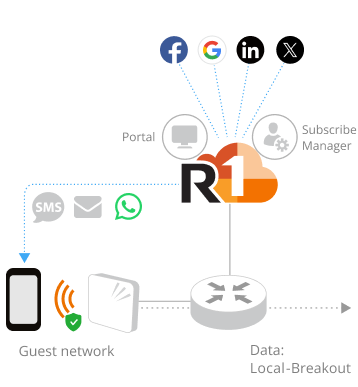
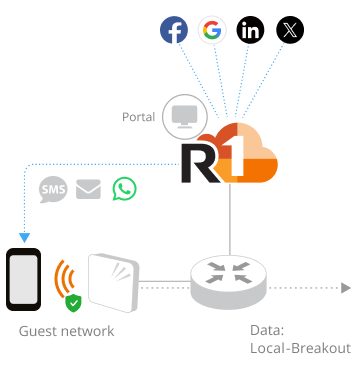
ACX-86289: support Accounting service on CaptivePortal Self sign in

diff --git a/libs/rc/shared/components/src/NetworkForm/NetworkDiagram/NetworkDiagram.tsx b/libs/rc/shared/components/src/NetworkForm/NetworkDiagram/NetworkDiagram.tsx
@@ -61,8 +61,14 @@ import PskDiagram                      from '../assets/images/network-wizard-dia
 import SAMLWithOweDiagram              from '../assets/images/network-wizard-diagrams/saml-owe.png'
 import SAMLWithPskDiagram              from '../assets/images/network-wizard-diagrams/saml-psk.png'
 import SAMLDiagram                     from '../assets/images/network-wizard-diagrams/saml.png'
-import SelfSignInWithOweDiagram        from '../assets/images/network-wizard-diagrams/self-sign-in-owe.png'
-import SelfSignInWithPskDiagram        from '../assets/images/network-wizard-diagrams/self-sign-in-psk.png'
+import SelfSignInAaaProxyDiagram       from '../assets/images/network-wizard-diagrams/self-sign-in-aaa-proxy.png'
+import SelfSignInAaaDiagram            from '../assets/images/network-wizard-diagrams/self-sign-in-aaa.png'
+import SelfSignInOweAaaProxyDiagram    from '../assets/images/network-wizard-diagrams/self-sign-in-owe-aaa-proxy.png'
+import SelfSignInOweAaaDiagram         from '../assets/images/network-wizard-diagrams/self-sign-in-owe-aaa.png'
+import SelfSignInOweDiagram            from '../assets/images/network-wizard-diagrams/self-sign-in-owe.png'
+import SelfSignInPskAaaProxyDiagram    from '../assets/images/network-wizard-diagrams/self-sign-in-psk-aaa-proxy.png'
+import SelfSignInPskAaaDiagram         from '../assets/images/network-wizard-diagrams/self-sign-in-psk-aaa.png'
+import SelfSignInPskDiagram            from '../assets/images/network-wizard-diagrams/self-sign-in-psk.png'
 import SelfSignInDiagram               from '../assets/images/network-wizard-diagrams/self-sign-in.png'
 import WISPrWithAlwaysAcceptOweDiagram from '../assets/images/network-wizard-diagrams/wispr-always-accept-owe.png'
 import WISPrWithAlwaysAcceptPskDiagram from '../assets/images/network-wizard-diagrams/wispr-always-accept-psk.png'
@@ -118,6 +124,7 @@ interface CaptivePortalDiagramProps extends DiagramProps {
   networkPortalType?: GuestNetworkTypeEnum
   wlanSecurity?: WlanSecurityEnum
   wisprWithAlwaysAccept?: boolean
+  networkSecurity?: string
 }
 
 type NetworkDiagramProps = DefaultDiagramProps
@@ -277,8 +284,7 @@ function getCaptivePortalDiagram (props: CaptivePortalDiagramProps) {
   const CaptivePortalDiagramMap: Partial<Record<GuestNetworkTypeEnum, string>> = {
     [GuestNetworkTypeEnum.ClickThrough]: wisprWithPsk ? ClickThroughWithPskDiagram :
       (wisprWithOwe ? ClickThroughWithOweDiagram : ClickThroughDiagram),
-    [GuestNetworkTypeEnum.SelfSignIn]: wisprWithPsk ? SelfSignInWithPskDiagram :
-      (wisprWithOwe ? SelfSignInWithOweDiagram : SelfSignInDiagram),
+    [GuestNetworkTypeEnum.SelfSignIn]: getSelfSignInDiagram(props),
     [GuestNetworkTypeEnum.HostApproval]: wisprWithPsk ? HostApprovalWithPskDiagram :
       (wisprWithOwe ? HostApprovalWithOweDiagram : HostApprovalDiagram),
     [GuestNetworkTypeEnum.GuestPass]: wisprWithPsk ? GuestPassWithPskDiagram :
@@ -296,6 +302,50 @@ function getCaptivePortalDiagram (props: CaptivePortalDiagramProps) {
   }
   return CaptivePortalDiagramMap[type] || ClickThroughDiagram
 }
+
+function getSelfSignInDiagram (props: CaptivePortalDiagramProps) {
+  let diagrams
+
+  switch (props.networkSecurity) {
+    case 'OWE':
+      diagrams = {
+        Diagram: SelfSignInOweDiagram,
+        AaaProxyDiagram: SelfSignInOweAaaProxyDiagram,
+        AaaDiagram: SelfSignInOweAaaDiagram
+      }
+      break
+    case 'PSK':
+      diagrams = {
+        Diagram: SelfSignInPskDiagram,
+        AaaProxyDiagram: SelfSignInPskAaaProxyDiagram,
+        AaaDiagram: SelfSignInPskAaaDiagram
+      }
+      break
+    case 'NONE':
+    default:
+      diagrams = {
+        Diagram: SelfSignInDiagram,
+        AaaProxyDiagram: SelfSignInAaaProxyDiagram,
+        AaaDiagram: SelfSignInAaaDiagram
+      }
+      break
+  }
+
+  return getCommonCaptivePortalDiagram(
+    props, diagrams.Diagram, diagrams.AaaProxyDiagram, diagrams.AaaDiagram
+  )
+}
+
+function getCommonCaptivePortalDiagram (
+  props: NetworkDiagramProps,
+  nonAaaDiagram:string,
+  aaaProxyDiagram:string,
+  aaaNonProxyDiagram:string
+) {
+  return (props.enableAccountingService)?
+    getAAADiagramByParams(props, aaaProxyDiagram, aaaNonProxyDiagram) : nonAaaDiagram
+}
+
 
 export function NetworkDiagram (props: NetworkDiagramProps) {
   const { $t } = useIntl()
@@ -336,7 +386,9 @@ export function NetworkDiagram (props: NetworkDiagramProps) {
     // Hide AAA button under Captive Portal - Workflow
     if(props.type === NetworkTypeEnum.CAPTIVEPORTAL) {
       const cpProps = props as CaptivePortalDiagramProps
-      return cpProps.networkPortalType === GuestNetworkTypeEnum.Workflow
+
+      return cpProps.networkPortalType === GuestNetworkTypeEnum.Workflow ||
+        cpProps.networkPortalType === GuestNetworkTypeEnum.SelfSignIn
     }
 
     if(networkType === NetworkTypeEnum.DPSK) {

diff --git a/libs/rc/shared/components/src/NetworkForm/NetworkDiagram/NetworkDiagram.spec.tsx b/libs/rc/shared/components/src/NetworkForm/NetworkDiagram/NetworkDiagram.spec.tsx
@@ -2,9 +2,9 @@ import '@testing-library/jest-dom'
 
 import userEvent from '@testing-library/user-event'
 
-import { GuestNetworkTypeEnum, NetworkTypeEnum, WlanSecurityEnum } from '@acx-ui/rc/utils'
-import { Provider }                                                from '@acx-ui/store'
-import { render, screen }                                          from '@acx-ui/test-utils'
+import { GuestNetworkTypeEnum, NetworkTypeEnum, WisprSecurityEnum, WlanSecurityEnum } from '@acx-ui/rc/utils'
+import { Provider }                                                                   from '@acx-ui/store'
+import { render, screen }                                                             from '@acx-ui/test-utils'
 
 import NetworkFormContext from '../NetworkFormContext'
 
@@ -723,17 +723,22 @@ describe('NetworkDiagram', () => {
     })
     it('should render Captive portal (Self Sign In) diagram successfully', async () => {
       const portalType = GuestNetworkTypeEnum.SelfSignIn
-      const { asFragment } = render(
+      render(
         <Provider>
           <NetworkFormContext.Provider value={{
             editMode: false,
             cloneMode: false,
+            isRuckusAiMode: false,
             data: {
               type
             },
             setData: jest.fn()
           }}>
-            <NetworkDiagram networkPortalType={portalType} />
+            <NetworkDiagram
+              networkPortalType={portalType}
+              enableAccountingService={true}
+              networkSecurity={'NONE'}
+            />
           </NetworkFormContext.Provider>
         </Provider>, {
           route: {
@@ -741,22 +746,27 @@ describe('NetworkDiagram', () => {
           }
         })
       const diagram = screen.getByRole('img') as HTMLImageElement
-      expect(diagram.src).toContain('SelfSignIn')
-      expect(asFragment()).toMatchSnapshot()
+      expect(diagram.src).toContain('SelfSignInAaa')
     })
     it('should render Captive portal (Self Sign In with PSK) diagram successfully', async () => {
       const portalType = GuestNetworkTypeEnum.SelfSignIn
-      const { asFragment } = render(
+      render(
         <Provider>
           <NetworkFormContext.Provider value={{
             editMode: false,
             cloneMode: false,
+            isRuckusAiMode: false,
             data: {
               type
             },
             setData: jest.fn()
           }}>
-            <NetworkDiagram networkPortalType={portalType} wlanSecurity={WlanSecurityEnum.WPA3} />
+            <NetworkDiagram
+              type={NetworkTypeEnum.CAPTIVEPORTAL}
+              networkPortalType={portalType}
+              wlanSecurity={WlanSecurityEnum.WPA3}
+              networkSecurity={'PSK'}
+            />
           </NetworkFormContext.Provider>
         </Provider>, {
           route: {
@@ -765,21 +775,26 @@ describe('NetworkDiagram', () => {
         })
       const diagram = screen.getByRole('img') as HTMLImageElement
       expect(diagram.src).toContain('SelfSignInPsk')
-      expect(asFragment()).toMatchSnapshot()
     })
     it('should render Captive portal (Self Sign In with OWE) diagram successfully', async () => {
       const portalType = GuestNetworkTypeEnum.SelfSignIn
-      const { asFragment } = render(
+      render(
         <Provider>
           <NetworkFormContext.Provider value={{
             editMode: false,
             cloneMode: false,
+            isRuckusAiMode: false,
             data: {
               type
             },
             setData: jest.fn()
           }}>
-            <NetworkDiagram networkPortalType={portalType} wlanSecurity={WlanSecurityEnum.OWE} />
+            <NetworkDiagram
+              type={NetworkTypeEnum.CAPTIVEPORTAL}
+              networkPortalType={portalType}
+              wlanSecurity={WlanSecurityEnum.OWE}
+              networkSecurity={'OWE'}
+            />
           </NetworkFormContext.Provider>
         </Provider>, {
           route: {
@@ -788,7 +803,6 @@ describe('NetworkDiagram', () => {
         })
       const diagram = screen.getByRole('img') as HTMLImageElement
       expect(diagram.src).toContain('SelfSignInOwe')
-      expect(asFragment()).toMatchSnapshot()
     })
     it('should render Captive portal (Host Approval) diagram successfully', async () => {
       const portalType = GuestNetworkTypeEnum.HostApproval

diff --git a/libs/rc/shared/components/src/NetworkForm/CaptivePortal/SelfSignInForm.tsx b/libs/rc/shared/components/src/NetworkForm/CaptivePortal/SelfSignInForm.tsx
@@ -28,6 +28,7 @@ import { validationMessages } from '@acx-ui/utils'
 import { NetworkDiagram }          from '../NetworkDiagram/NetworkDiagram'
 import NetworkFormContext          from '../NetworkFormContext'
 import { NetworkMoreSettingsForm } from '../NetworkMoreSettings/NetworkMoreSettingsForm'
+import { AccountingServiceInput }  from '../SharedComponent'
 import * as UI                     from '../styledComponents'
 
 import { DhcpCheckbox }                          from './DhcpCheckbox'
@@ -75,6 +76,11 @@ export function SelfSignInForm () {
     useWatch(['guestPortal', 'socialIdentities', 'twitter']),
     useWatch(['guestPortal', 'socialIdentities', 'linkedin'])
   ]
+
+  const networkSecurity = useWatch('networkSecurity', form)
+  const enableAccountingProxy = useWatch('enableAccountingProxy', form)
+  const enableAccountingService = useWatch('enableAccountingService', form)
+
   const [allowedDomainsValue, setAllowedDomainsValue] = useState('')
   const [allowedSignValue, setAllowedSignValue] = useState([] as Array<string>)
   const { $t } = useIntl()
@@ -192,7 +198,8 @@ export function SelfSignInForm () {
       if (isRestEnableSmsLogin)
         form.setFieldValue(['guestPortal', 'enableSmsLogin'], false)
     }
-  }, [data])
+  }, [data?.id])
+
   const globalValues= get('CAPTIVE_PORTAL_DOMAIN_NAME')
   const [redirectURL, setRedirectURL]=useState('')
   useEffect(()=>{
@@ -416,11 +423,20 @@ export function SelfSignInForm () {
         <BypassCaptiveNetworkAssistantCheckbox/>
         <WalledGardenTextArea
           enableDefaultWalledGarden={false} />
+
+        <AccountingServiceInput
+          isProxyModeConfigurable={true}
+        />
       </GridCol>
       <GridCol col={{ span: 12 }}>
-        <NetworkDiagram type={NetworkTypeEnum.CAPTIVEPORTAL}
+        <NetworkDiagram
+          type={NetworkTypeEnum.CAPTIVEPORTAL}
           networkPortalType={GuestNetworkTypeEnum.SelfSignIn}
-          wlanSecurity={data?.wlan?.wlanSecurity} />
+          wlanSecurity={data?.wlan?.wlanSecurity}
+          networkSecurity={networkSecurity}
+          enableAccountingService={enableAccountingService}
+          enableAccountingProxy={enableAccountingProxy}
+        />
       </GridCol>
     </GridRow>
     {!(editMode) && !(isRuckusAiMode) && <GridRow>

diff --git a/libs/rc/shared/components/src/NetworkForm/utils.tsx b/libs/rc/shared/components/src/NetworkForm/utils.tsx
@@ -444,7 +444,11 @@ export function shouldSaveRadiusServerSettings (saveData: NetworkSaveData): bool
     case NetworkTypeEnum.OPEN:
       return !!saveData.wlan?.macAddressAuthentication
     case NetworkTypeEnum.CAPTIVEPORTAL:
-      return [GuestNetworkTypeEnum.Cloudpath, GuestNetworkTypeEnum.Workflow].includes(
+      return [
+        GuestNetworkTypeEnum.Cloudpath,
+        GuestNetworkTypeEnum.Workflow,
+        GuestNetworkTypeEnum.SelfSignIn
+      ].includes(
         saveData.guestPortal?.guestNetworkType ?? GuestNetworkTypeEnum.ClickThrough
       )
   }

diff --git a/libs/rc/shared/components/src/NetworkForm/NetworkForm.tsx b/libs/rc/shared/components/src/NetworkForm/NetworkForm.tsx
@@ -722,7 +722,8 @@ export function NetworkForm (props:{
     }
     if(
       saveState.guestPortal?.guestNetworkType !== GuestNetworkTypeEnum.Cloudpath &&
-      saveState.guestPortal?.guestNetworkType !== GuestNetworkTypeEnum.Workflow
+      saveState.guestPortal?.guestNetworkType !== GuestNetworkTypeEnum.Workflow &&
+      saveState.guestPortal?.guestNetworkType !== GuestNetworkTypeEnum.SelfSignIn
     ){
       delete data.authRadius
       delete data.accountingRadius
